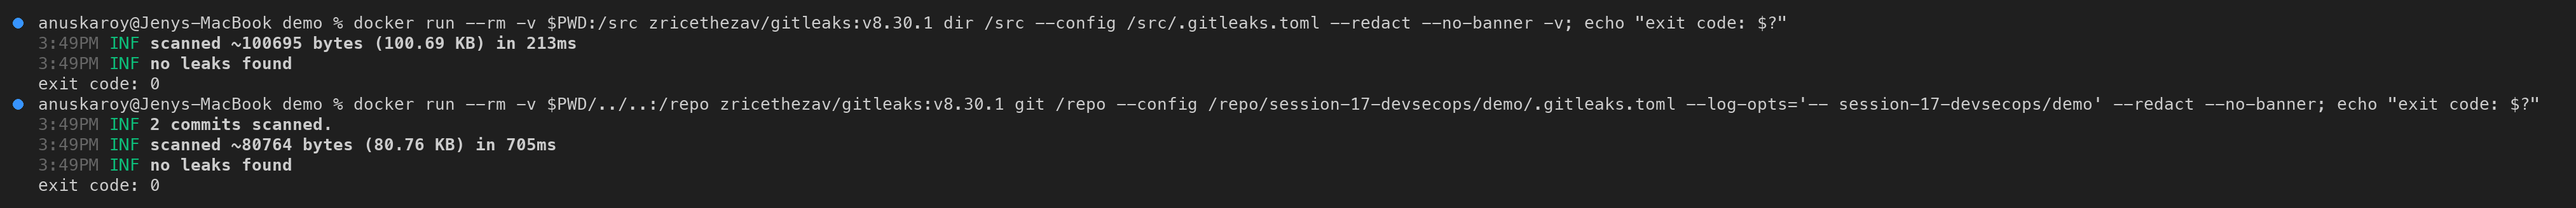
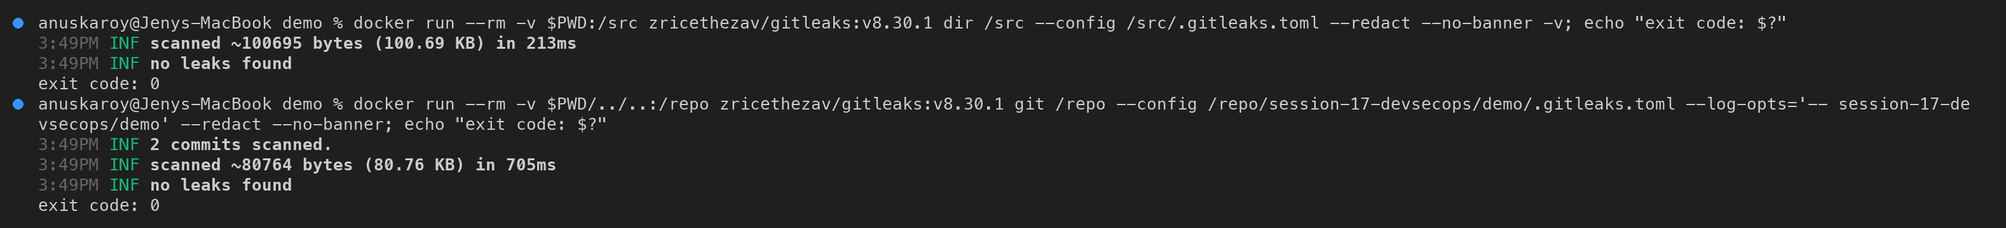
session 17 (pipeline output screenshots)

Changed region(s): [[0.0, 0.061, 0.9937, 0.9451]]

diff --git a/session-17-devsecops/demo/README.md b/session-17-devsecops/demo/README.md
@@ -14,7 +14,7 @@ Code → Build → Unit Test → SAST → SCA → Secret Scan → Docker Build
 |---|---|
 | Live workflow (run by GitHub) | [`.github/workflows/session17-devsecops.yml`](../../.github/workflows/session17-devsecops.yml) (repo root) |
 | Reference copy in this folder | [`.github/workflows/devsecops.yml`](.github/workflows/devsecops.yml) (identical; GitHub ignores nested `.github`) |
-| Successful pipeline run | _added after the pipeline runs on the pushed commit (see [§8](#8-pipeline-output-github-actions))_ |
+| Successful pipeline run | [#37655701204](https://github.com/jenyyy4/devops-heros/actions/runs/37655701204): all 10 jobs green, commit `cb15a33` |
 | Image | `ghcr.io/jenyyy4/session17-devsecops:<commit-sha>` |
 
 ---
@@ -279,9 +279,85 @@ curl localhost:8080/api/status
 
 ## 8. Pipeline output (GitHub Actions)
 
-> _Screenshots of the GitHub Actions run (all 10 jobs green, the per-stage logs, the security-gate
-> summary, the image in GHCR and the deploy job) are added here after the workflow runs on the
-> pushed commit._
+Run **[#37655701204](https://github.com/jenyyy4/devops-heros/actions/runs/37655701204)** was triggered
+by the push of commit `cb15a33` to `main`. All **10 jobs passed** in about 8 minutes. The screenshots
+below are the real job logs, fetched with `gh run view --job=<id> --log` and filtered with `grep`.
+
+### 8.1 Run overview
+
+![gh run list](screenshots/18-gh-run-list.png)
+
+Every job is green, in the order the assignment asks for. The run produced three artifacts:
+`docker-image` (the exact image that was scanned and pushed), `sast-reports` and `test-reports`.
+
+![gh run view](screenshots/19-gh-run-view.png)
+
+> The `ANNOTATIONS` block is filtered out of this screenshot. It only contains (a) the runner
+> notice that `ubuntu-latest` moves to Ubuntu 26 on 19 Oct 2026, and (b) a post-job checkout warning
+> `git … failed with exit code 128` (see [§11](#11-troubleshooting-notes)). Neither affects the result.
+
+### 8.2 Stages 1–2: Build and Unit Test
+
+The app compiles and imports (8 routes). 11/11 tests pass, and coverage is 86.79 % against the 80 % gate:
+
+![CI build and test](screenshots/20-ci-build-test.png)
+
+### 8.3 Stage 3: SAST
+
+CodeQL and Bandit results are uploaded to GitHub code scanning (Security tab). The Bandit gate finds
+**no issues** (0 Medium, 0 High):
+
+![CI SAST](screenshots/21-ci-sast.png)
+
+### 8.4 Stages 4–5: SCA and Secret Scan
+
+pip-audit finds **no known vulnerabilities** in the runtime or dev dependencies. Gitleaks finds **no
+leaks** in the working tree or in the project's git history:
+
+![CI SCA and secrets](screenshots/22-ci-sca-secrets.png)
+
+### 8.5 Stage 6: Docker Build
+
+Multi-stage build tagged with the full commit SHA. The smoke test hits `/health` and `/api/status`
+and shows the container runs as `uid=10001(app)`:
+
+![CI docker build](screenshots/23-ci-docker-build.png)
+
+### 8.6 Stage 7: Container Image Scan
+
+The image loaded from the stage-6 artifact has **0** HIGH/CRITICAL vulnerabilities under the
+`trivy.yaml` gate policy:
+
+![CI Trivy image](screenshots/24-ci-image-scan.png)
+
+The Dockerfile and all Kubernetes manifests have **0** HIGH/CRITICAL misconfigurations:
+
+![CI Trivy config](screenshots/25-ci-config-scan.png)
+
+### 8.7 Stage 8: Security Gate
+
+All seven checks report `success`, so the gate **passes** and the release may continue:
+
+![CI security gate](screenshots/26-ci-security-gate.png)
+
+### 8.8 Stage 9: Push Image to GHCR
+
+The same image (from the artifact, not rebuilt) is pushed as `:<sha>` and `:latest`. Both tags have
+the same digest:
+
+![CI push](screenshots/27-ci-push-ghcr.png)
+
+Checked from the laptop directly against the registry (anonymous, read-only):
+
+![GHCR image](screenshots/29-ghcr-image.png)
+
+### 8.9 Stage 10: Deploy to Kubernetes
+
+kind cluster on the runner → image pinned to the commit → `kubectl apply -k` → rollout → 2/2 Pods
+`Running` with the GHCR image → smoke test through the Service confirms `git_sha` = the commit
+that triggered the run:
+
+![CI deploy](screenshots/28-ci-deploy.png)
 
 ---
 
@@ -423,4 +499,5 @@ Smoke test through the Service:
 | `Readiness probe failed: context deadline exceeded` during start-up | default probe timeout is 1 s while two workers boot under a 250m CPU limit | `timeoutSeconds: 2` |
 | A full-history Gitleaks scan of the repo fails | classroom Secret YAMLs from session 12 | the CI job scopes the history scan to `session-17-devsecops/demo` |
 | The Trivy count for the old Debian image changed from 44 HIGH to 0 between two runs on the same day | Trivy updates its vulnerability DB; the first findings had status `affected` (no fixed version) | gate on **fixable** HIGH/CRITICAL (`ignore-unfixed`), and always pin the scanner version |
+| CI annotation `The process '/usr/bin/git' failed with exit code 128` on most jobs | in its post-job cleanup, `actions/checkout` runs `git submodule foreach`, and the repo has a submodule entry for `session-16-github-actions/mini-project 10-33-34-265` with no `.gitmodules` | harmless warning (the jobs still succeed). Fixing it means removing that broken submodule entry in session 16 |
 | A CI image doesn't run on the local minikube | CI builds `linux/amd64`, the laptop is `arm64` | locally, build the image and `minikube image load` it |
